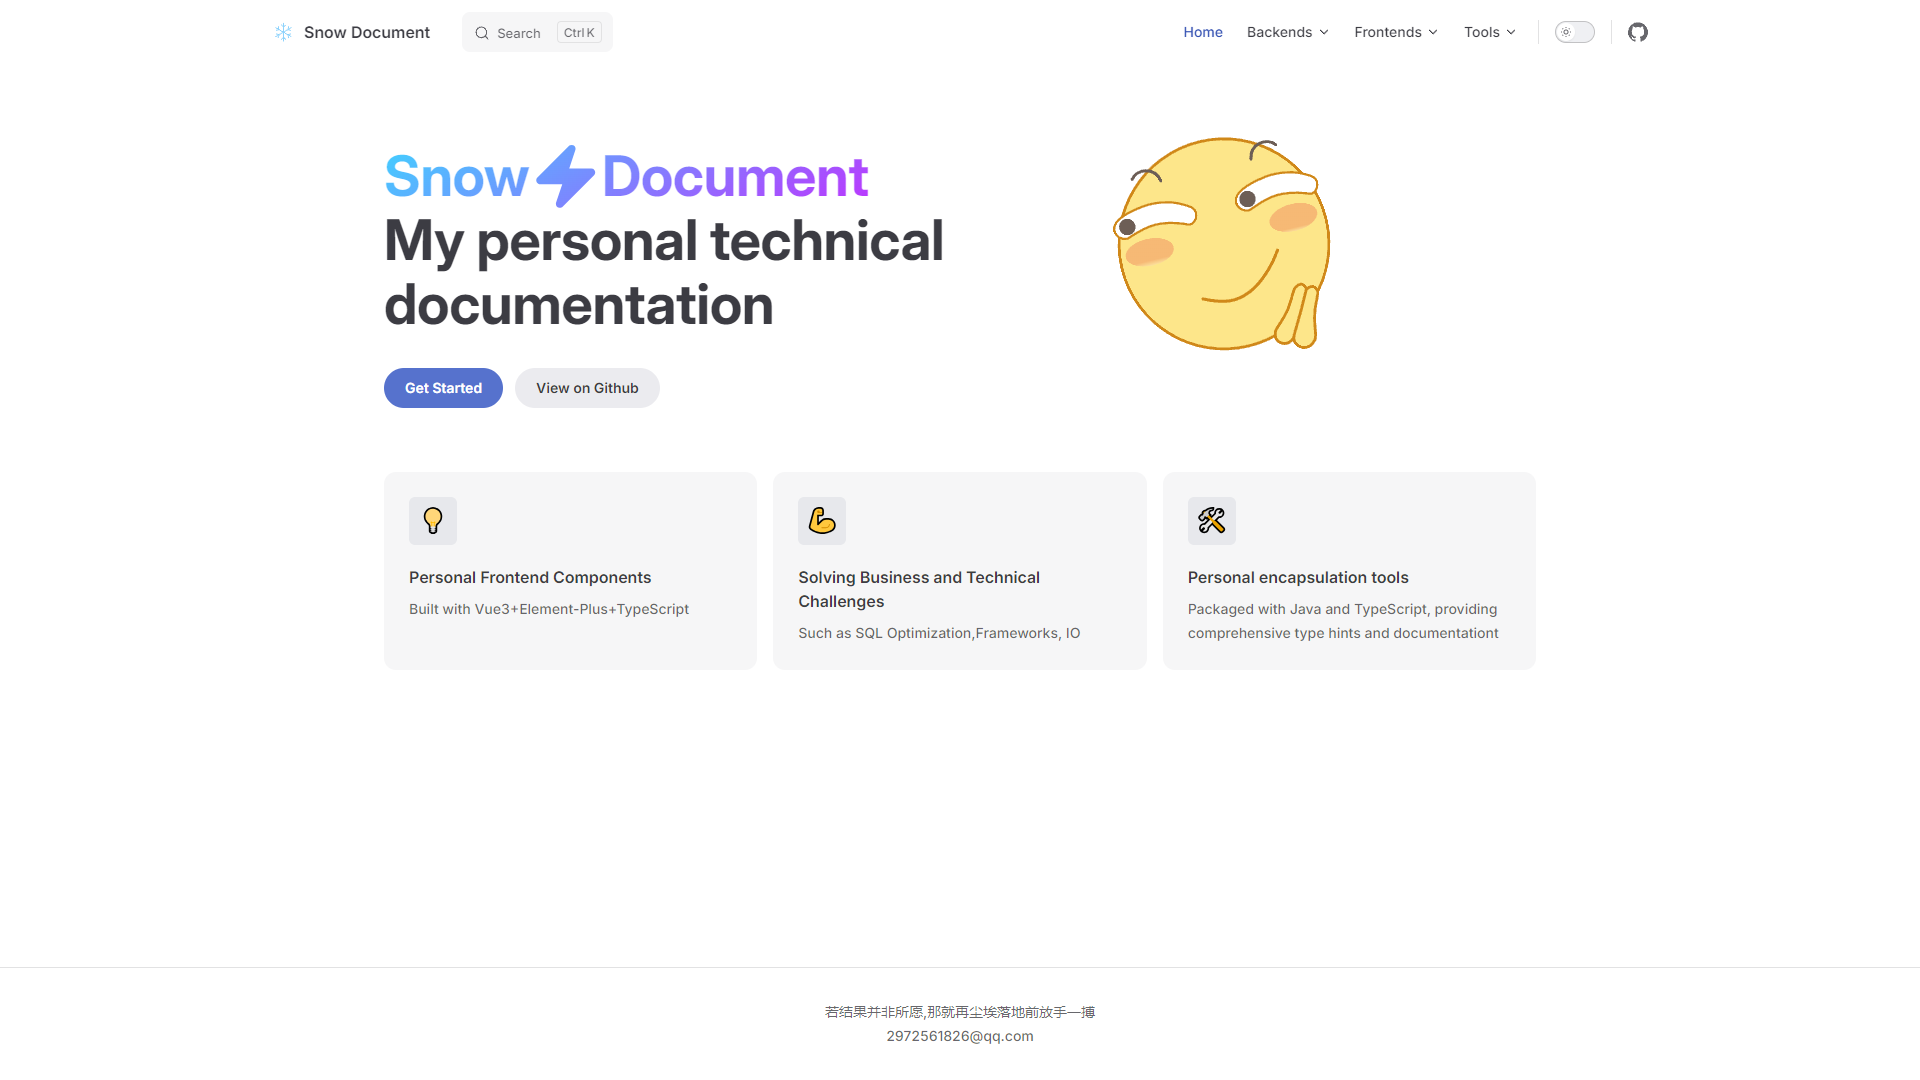
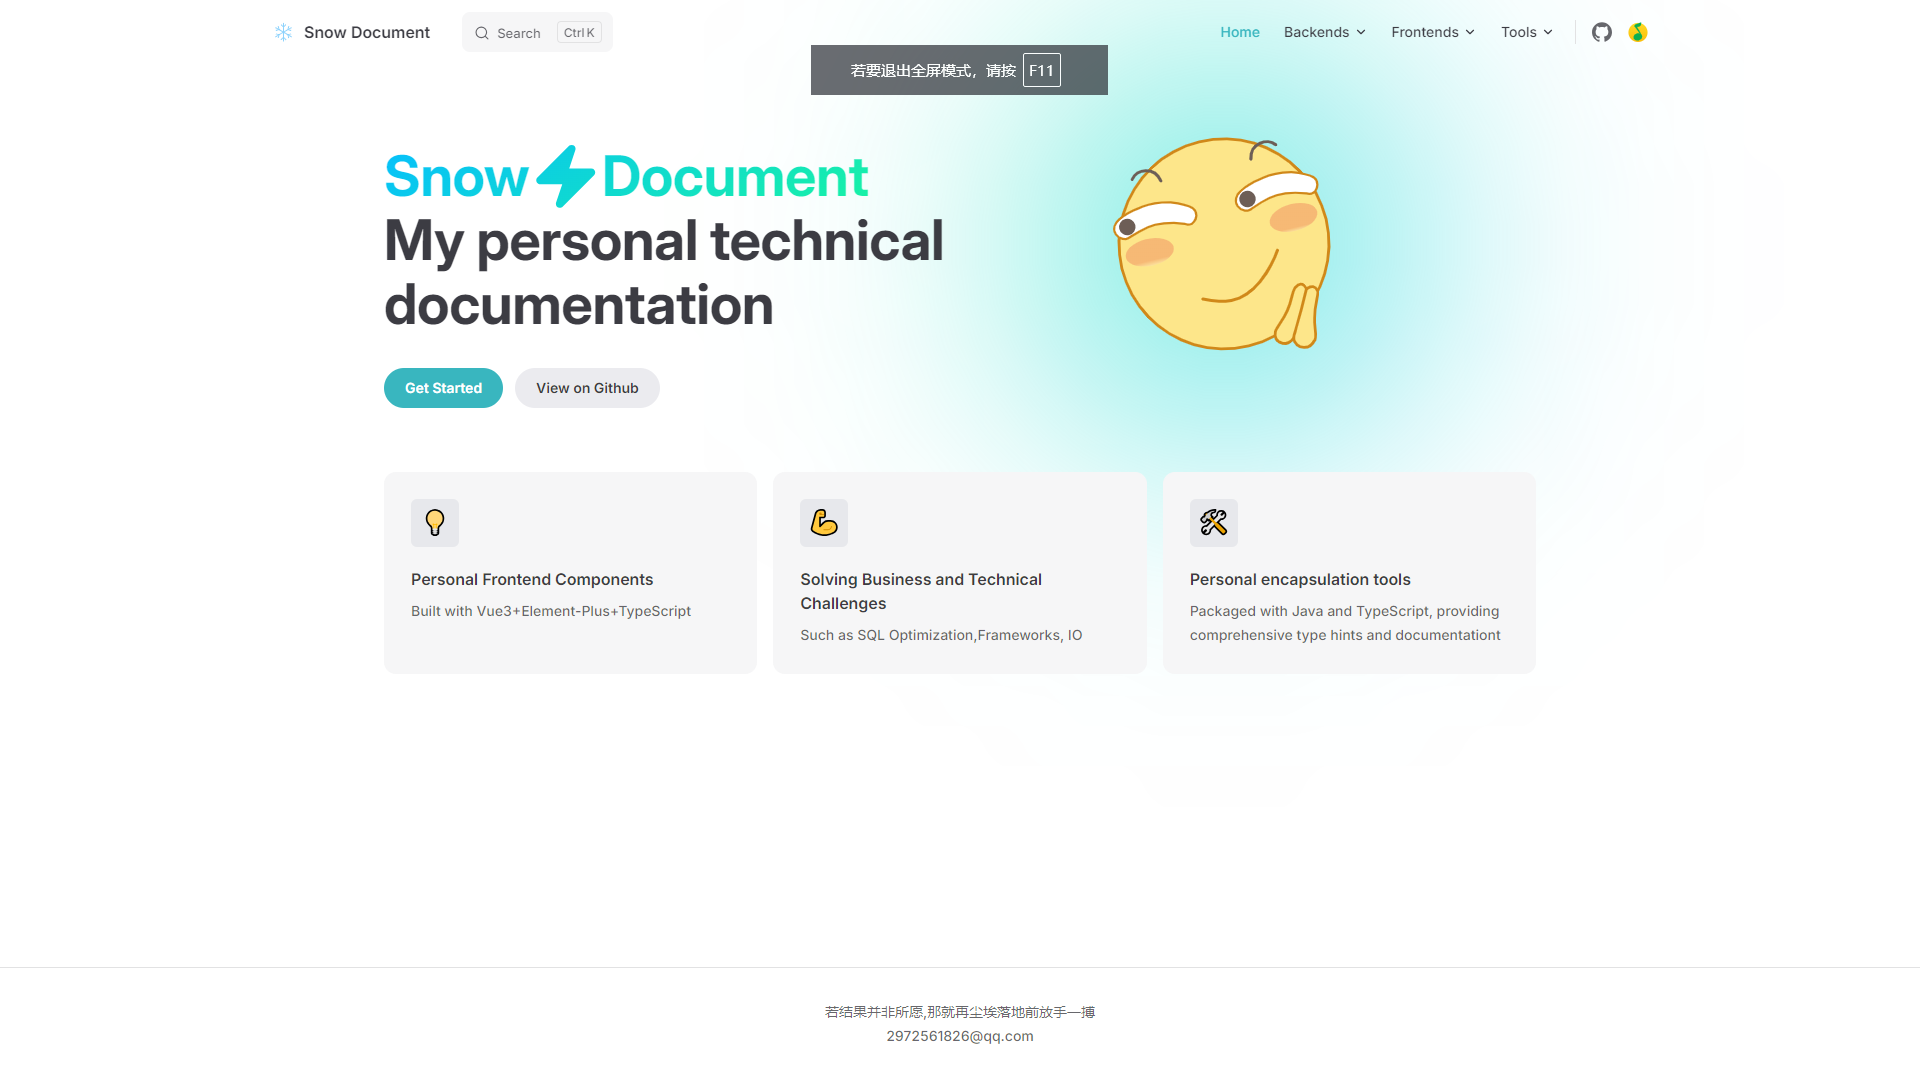
更新了go文章和修改预览界面地址

diff --git a/docs/.vitepress/customConfig.ts b/docs/.vitepress/customConfig.ts
@@ -1,30 +1,60 @@
-import { DefaultTheme } from 'vitepress/theme';
-export const nav: DefaultTheme.NavItem[]  = [
-    { text: "Home", link: "/" },
-    { text: "Backends",items:[
-            {text:"Spring",link:"/backends/spring/SN"},
-            {text:"Redis",link:"/backends/redis/SN"},
-            {text:"Mysql",link:"/backends/mysql/SN"},
-        ]},
-    { text: "Frontends",items:[
-            {text:"Vue",link:"/frontends/vue/SN"},
-            {text:"TypeScript",link:"/frontends/typeScript/SN"},
-        ]},
-    { text: "Tools",items:[
-            {text:"Comp & Fnc",link:"/tools/comp-and-fnc/SN"},
-            {text:"Tool",link:"/tools/tool/SN"},
-        ]},
-]
+import { DefaultTheme } from "vitepress/theme";
+export const nav: DefaultTheme.NavItem[] = [
+  { text: "Home", link: "/" },
+  {
+    text: "languages",
+    items: [
+      { text: "Go", link: "/languages/go/index.md" },
+      { text: "TypeScript", link: "/languages/typescript/SN/SN" },
+    ],
+  },
+  {
+    text: "Middleware",
+    items: [
+      { text: "Redis", link: "/middleware/spring/SN" },
+      { text: "Mysql", link: "/middleware/spring/SN" },
+    
+    ],
+  },
+  {
+    text: "fremework",
+    items: [
+      { text: "Gorm", link: "/fremework/spring/SN" },
+      { text: "Gin", link: "/fremework/go/SN" },
+      { text: "React", link: "/fremework/vue/SN" },
+    ],
+  },
+  {
+    text: "Cloud Native",
+    items: [
+      { text: "Go Micro", link: "/fremework/go/SN" },
+      { text: "K8s", link: "/cloud-native/k8s/SN" },
+      { text: "Docker", link: "/cloud-native/docker/SN" },
+      { text: "Zookeeper", link: "/middleware/spring/SN" },
+      { text: "Kafka", link: "/middleware/spring/SN" },
+      { text: "RabbitMQ",link:"/middleware/spring/SN" },
+      { text: "Rpc",link:"/middleware/spring/SN" },
+      { text: "Raft",link:"/middleware/spring/SN" },
+      { text: "Grpc",link:"/middleware/spring/SN" },
+    ],
+  },
+];
 
-export const sidebar:DefaultTheme.Sidebar = {
-    "/frontends/typeScript":[
-        {
-            text:"typeScript",
-            collapsed:false,
-            items:[
-                {text:"数据校验函数",link:"/frontends/typeScript/1.数据正则校验实现"},
-                {text:"axios封装",link:"/frontends/typeScript/2.axios封装"}
-            ]
-        }
-    ]
-}
+export const sidebar: DefaultTheme.Sidebar = {
+  "languages/go": [
+    {
+      text: "介绍",
+      collapsed: false,
+      items: [{ text: "为什么使用go", link: "/languages/go/index.md" }],
+    },
+    {
+        text: "使用",
+        collapsed: false,
+        items: [{ text: "并发插入百万数据到Mysql", link: "/languages/go/并发插入百万数据到Mysql.md" },
+          { text: "切片Slice", link: "/languages/go/切片的使用.md" },
+          { text: "map的使用", link: "/languages/go/map的使用.md" },
+          { text: "os的使用", link: "/languages/go/os的使用.md" }
+        ],
+      },
+  ],
+};

diff --git a/docs/src/index.md b/docs/src/index.md
@@ -10,21 +10,18 @@ hero:
     alt: VitePress
   actions:
     - theme: brand
-      text: Get Started
-      link: /markdown-examples
-    - theme: alt
       text: View on Github
       link: https://github.com/EvanSnowly/EvanSnowly.github.io
 features:
   - title: Personal Frontend Components
     icon: 💡
-    details: Built with Vue3+Element-Plus+TypeScript
+    details: Built with React+Ant Design+TypeScript
   - title: Solving Business and Technical Challenges
     icon: 💪
     details: Such as SQL Optimization,Frameworks, IO
   - title: Personal encapsulation tools
     icon: 🛠
-    details: Packaged with Java and TypeScript, providing comprehensive type hints and documentationt   
+    details: Packaged with Go and TypeScript, providing comprehensive type hints and documentationt   
  
 ---
 
